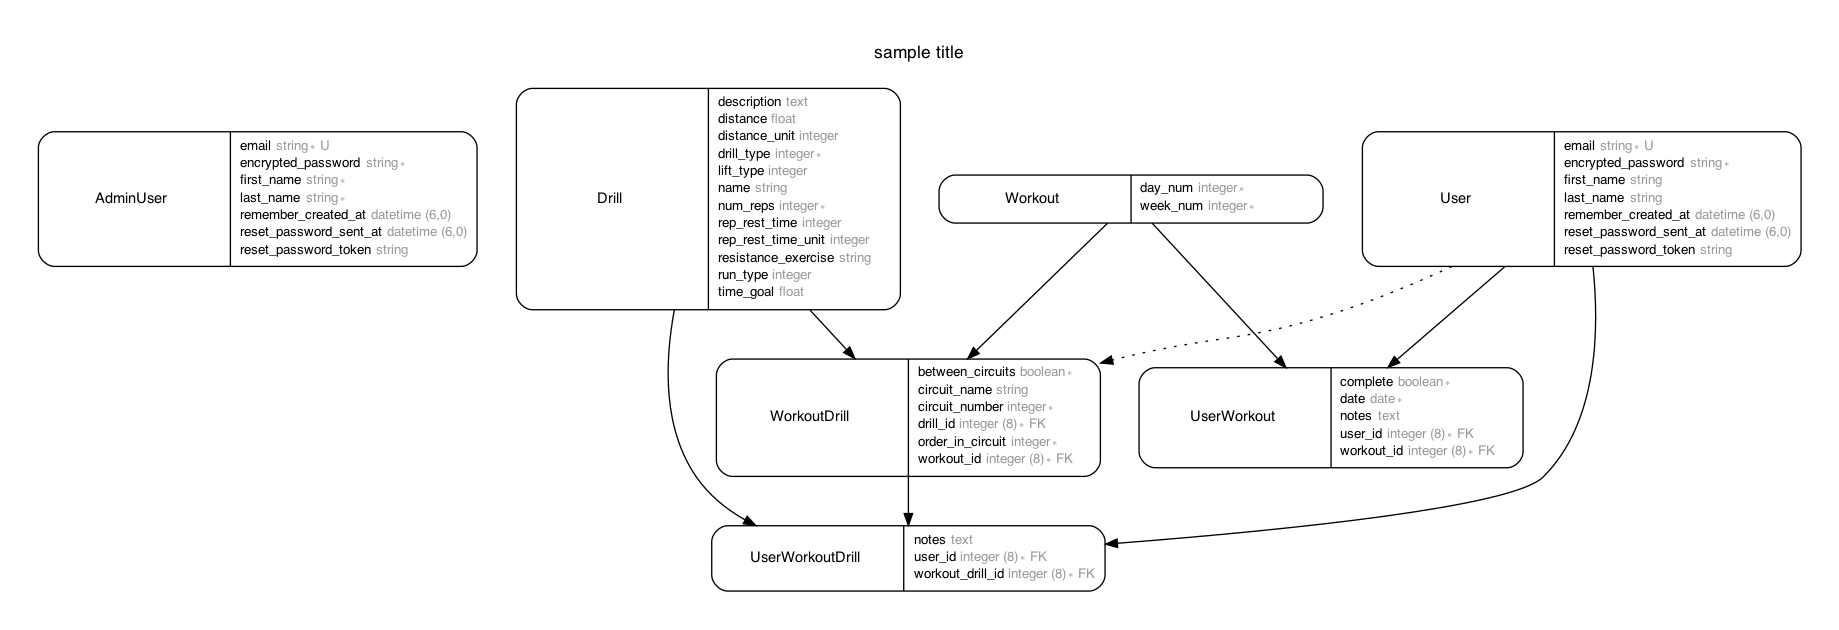
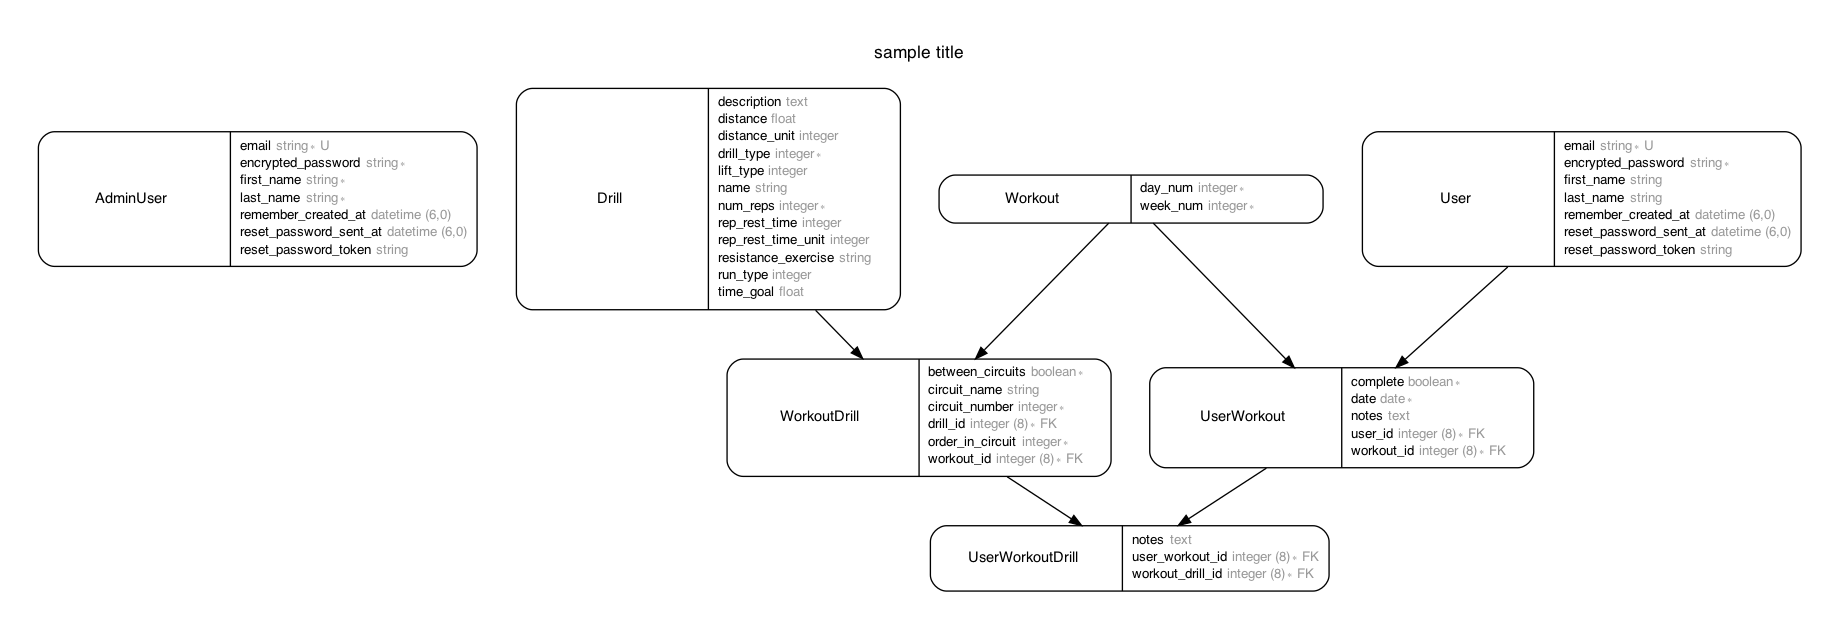
edit notes in line

diff --git a/db/schema.rb b/db/schema.rb
@@ -47,12 +47,12 @@ ActiveRecord::Schema.define(version: 2022_01_02_200734) do
   end
 
   create_table "user_workout_drills", force: :cascade do |t|
-    t.bigint "user_id", null: false
+    t.bigint "user_workout_id", null: false
     t.bigint "workout_drill_id", null: false
     t.text "notes"
     t.datetime "created_at", precision: 6, null: false
     t.datetime "updated_at", precision: 6, null: false
-    t.index ["user_id"], name: "index_user_workout_drills_on_user_id"
+    t.index ["user_workout_id"], name: "index_user_workout_drills_on_user_workout_id"
     t.index ["workout_drill_id"], name: "index_user_workout_drills_on_workout_drill_id"
   end
 
@@ -102,7 +102,7 @@ ActiveRecord::Schema.define(version: 2022_01_02_200734) do
     t.datetime "updated_at", precision: 6, null: false
   end
 
-  add_foreign_key "user_workout_drills", "users"
+  add_foreign_key "user_workout_drills", "user_workouts"
   add_foreign_key "user_workout_drills", "workout_drills"
   add_foreign_key "user_workouts", "users"
   add_foreign_key "user_workouts", "workouts"

diff --git a/app/controllers/user_workout_drills_controller.rb b/app/controllers/user_workout_drills_controller.rb
@@ -1,0 +1,26 @@
+class UserWorkoutDrillsController < ApplicationController
+  before_action :set_user_workout_drill
+  before_action :set_user_workout
+
+  def update
+    @user_workout_drill.update(user_workout_drill_params)
+
+    respond_to do |format|
+      format.html { redirect_to @user_workout}
+    end
+  end
+
+  private
+
+  def set_user_workout_drill
+    @user_workout_drill = UserWorkoutDrill.find(params[:id])
+  end
+
+  def set_user_workout
+    @user_workout = @user_workout_drill.user_workout
+  end
+
+  def user_workout_drill_params
+    @user_workout_drill_params ||= UserWorkoutDrillDecanter.decant(params[:user_workout_drill])
+  end
+end

diff --git a/config/routes.rb b/config/routes.rb
@@ -18,8 +18,8 @@ Rails.application.routes.draw do
     root to: 'users#dashboard', as: :authenticated_root
   end
 
-  resources :user_workouts, only: [:show, :edit, :update]
-  resources :users, only: %i(show update edit) do
-    resources :user_workout_drills, only: %i(show update edit)
+  resources :users, only: %i(show update edit)
+  resources :user_workouts, only: %i(show update edit) do
+    resources :user_workout_drills, only: %i(edit update)
   end
 end

diff --git a/app/models/user_workout_drill.rb b/app/models/user_workout_drill.rb
@@ -1,11 +1,6 @@
 class UserWorkoutDrill < ApplicationRecord
-  belongs_to :user
+  belongs_to :user_workout
   belongs_to :workout_drill
 
-  # scope :for_user, -> (user) { where(user_id: user.id) }
-
-  # this can not workout if repeating the program over time...
-  def self.for_user(user)
-    find_by(user_id: user.id)
-  end
+  scope :for_drill, -> (drill) { joins(:workout_drill).merge(WorkoutDrill.for_drill(drill)) }
 end

diff --git a/lib/seeds/user_workout_seeder.rb b/lib/seeds/user_workout_seeder.rb
@@ -49,7 +49,7 @@ module Seeds
 
       def user_workout_drills_hash(user_workout)
         user_workout.workout.workout_drills.pluck(:id).map do |workout_drill_id|
-          { user_id: user_workout.user_id, workout_drill_id: workout_drill_id }
+          { user_workout_id: user_workout.id, workout_drill_id: workout_drill_id }
         end
       end
 

diff --git a/db/migrate/20220102200734_create_user_workout_drills.rb b/db/migrate/20220102200734_create_user_workout_drills.rb
@@ -1,7 +1,7 @@
 class CreateUserWorkoutDrills < ActiveRecord::Migration[7.0]
   def change
     create_table :user_workout_drills do |t|
-      t.references :user, null: false, foreign_key: true
+      t.references :user_workout, null: false, foreign_key: true
       t.references :workout_drill, null: false, foreign_key: true
       t.text :notes
 

diff --git a/app/controllers/user_workouts_controller.rb b/app/controllers/user_workouts_controller.rb
@@ -1,7 +1,7 @@
 class UserWorkoutsController < ApplicationController
   def show
     @user_workout = UserWorkout.find(params[:id])
-    @circuits = @user_workout.circuits
+    @circuits = @user_workout.workout.circuits
     @week = UserWorkoutWeek.new(user_workout: @user_workout, user: current_user)
   end
 end

diff --git a/app/models/workout_drill.rb b/app/models/workout_drill.rb
@@ -12,4 +12,5 @@ class WorkoutDrill < ApplicationRecord
 
   scope :for_week, -> (week_num) { joins(:workout).merge(Workout.for_week(week_num)) }
   scope :for_day, -> (day_num) { joins(:workout).merge(Workout.for_day(day_num)) }
+  scope :for_drill, -> (drill) { where(drill_id: drill.id) }
 end

diff --git a/app/models/user_workout.rb b/app/models/user_workout.rb
@@ -2,6 +2,9 @@ class UserWorkout < ApplicationRecord
   belongs_to :user
   belongs_to :workout
 
+  has_many :user_workout_drills
+  has_many :workout_drills, through: :user_workout_drills
+
   validates_presence_of :date
 
   scope :for_user, -> (user) { where(user_id: user.id) }

diff --git a/app/models/user.rb b/app/models/user.rb
@@ -7,8 +7,6 @@ class User < ApplicationRecord
 
   has_many :user_workouts
   has_many :workouts, through: :user_workouts
-  has_many :user_workout_drills
-  has_many :workout_drills, through: :user_workout_drills
 
   validates_presence_of :email
   validates_uniqueness_of :email

diff --git a/spec/models/user_workout_drill_spec.rb b/spec/models/user_workout_drill_spec.rb
@@ -5,6 +5,6 @@ RSpec.describe UserWorkoutDrill, type: :model do
 
   it { is_expected.to be_valid }
 
-  it { is_expected.to belong_to(:user) }
+  it { is_expected.to belong_to(:user_workout) }
   it { is_expected.to belong_to(:workout_drill) }
 end

diff --git a/spec/factories/user_workout_drills.rb b/spec/factories/user_workout_drills.rb
@@ -1,6 +1,6 @@
 FactoryBot.define do
   factory :user_workout_drill do
-    user
+    user_workout
     workout_drill
     notes { "MyText" }
   end
